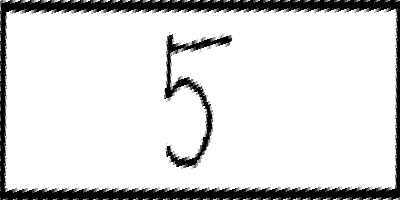
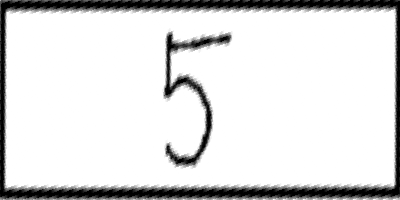
updated DistortImage

Changed region(s): [[0.0, 0.0, 1.0, 1.0], [0.39, 0.15, 0.6, 0.84]]

diff --git a/1 Console App Utilities/A - Extensions/E - Image/E007 DistortImage.cs b/1 Console App Utilities/A - Extensions/E - Image/E007 DistortImage.cs
@@ -334,20 +334,18 @@ public static partial class OwesomeExtensions
             ps = ps.Append((oriP3, tarP3)).ToArray();
         }
 
-        var oriO = CreateMatrix.Dense<float>(4, 4);
-        var tarO = CreateMatrix.Dense<float>(4, 4);
+        var oriO = CreateMatrix.Dense<float>(3, 4);
+        var tarO = CreateMatrix.Dense<float>(3, 4);
 
         for (int i = 0; i < 4; i++)
         {
             oriO[0, i] = ps[i].originalPoint.X;
             oriO[1, i] = ps[i].originalPoint.Y;
             oriO[2, i] = 1;
-            oriO[3, i] = 1;
 
             tarO[0, i] = ps[i].tagrtPoint.X;
             tarO[1, i] = ps[i].tagrtPoint.Y;
             tarO[2, i] = 1;
-            tarO[3, i] = 1;
         }
 
         var m1 = tarO;
@@ -355,92 +353,10 @@ public static partial class OwesomeExtensions
         var m1I = m1.PseudoInverse();
         var invMatrix = m2 * m1I;
 
-        var outputImage = __DistortImage_FromInverseMatrix2(inputImage, invMatrix, fill);
-
-        //// original bitmap mapping
-        //using var outputBitmap = new Bitmap(inputImage.Width, inputImage.Height);
-        //using var g = Graphics.FromImage(outputBitmap);
-        //g.FillRectangle(fill!, new Rectangle(new Point(0, 0), outputBitmap.Size));
-        //g.DrawImage(inputImage, points);
-
-
+        var outputImage = __DistortImage_FromInverseMatrix(inputImage, invMatrix, fill);
 
         return outputImage;
 
-
-
-        // stable keep
-        {
-
-            //if (ps.Length == 1)
-            //{
-            //    // increase dim
-            //    ps = ps.Append((Point.Add(ps[0].originalPoint, new Size(100, 0)), Point.Add(ps[0].tagrtPoint, new Size(100, 0)))).ToArray();
-            //    ps = ps.Append((Point.Add(ps[0].originalPoint, new Size(0, 100)), Point.Add(ps[0].tagrtPoint, new Size(0, 100)))).ToArray();
-            //}
-            //if (ps.Length == 2)
-            //{
-            //    // increase dim
-            //    var oriP0 = ps[0].originalPoint;
-            //    var oriP1 = ps[1].originalPoint;
-            //    var oriV1 = Point.Subtract(oriP1, (Size)oriP0);
-            //    var oriV2 = Point.Add(new Point(-oriV1.Y, oriV1.X), (Size)oriP0);
-
-            //    var tarP0 = ps[0].tagrtPoint;
-            //    var tarP1 = ps[1].tagrtPoint;
-            //    var tarV1 = Point.Subtract(tarP1, (Size)tarP0);
-            //    var tarV2 = Point.Add(new Point(-tarV1.Y, tarV1.X), (Size)tarP0);
-
-            //    ps = ps.Append((oriV2, tarV2)).ToArray();
-            //}
-
-            //var oriO = CreateMatrix.Dense<float>(4, 3);
-            //var tarO = CreateMatrix.Dense<float>(4, 3);
-
-            //for (int i = 0; i < 3; i++)
-            //{
-            //    oriO[0, i] = ps[i].originalPoint.X;
-            //    oriO[1, i] = ps[i].originalPoint.Y;
-            //    oriO[2, i] = 1;
-            //    oriO[3, i] = 1;
-
-            //    tarO[0, i] = ps[i].tagrtPoint.X;
-            //    tarO[1, i] = ps[i].tagrtPoint.Y;
-            //    tarO[2, i] = 1;
-            //    tarO[3, i] = 1;
-            //}
-
-            //var oriF = CreateMatrix.Dense<float>(4, 3);
-
-            //oriF[0, 1] = inputImage.Width;
-            //oriF[1, 2] = inputImage.Height;
-            //oriF[2, 0] = 1;
-            //oriF[2, 1] = 1;
-            //oriF[2, 2] = 1;
-            //oriF[3, 0] = 1;
-            //oriF[3, 1] = 1;
-            //oriF[3, 2] = 1;
-
-            //var m1 = tarO;
-            //var m2 = oriO;
-            //var m3 = oriF;
-            //var m2I = m2.PseudoInverse();
-            //var tarF = m1 * m2I * m3;
-
-            //var points = new PointF[]
-            //{
-            //new PointF(tarF[0,0], tarF[1,0]),
-            //new PointF(tarF[0,1], tarF[1,1]),
-            //new PointF(tarF[0,2], tarF[1,2]),
-            //};
-
-            //using var outputBitmap = new Bitmap(inputImage.Width, inputImage.Height);
-            //using var g = Graphics.FromImage(outputBitmap);
-            //g.FillRectangle(fill!, new Rectangle(new Point(0, 0), outputBitmap.Size));
-            //g.DrawImage(inputImage, points);
-
-            //return (Image)outputBitmap.Clone();
-        }
     }
 
     /// <summary>
@@ -476,110 +392,49 @@ public static partial class OwesomeExtensions
         inFBmp.BeginAccess();
         outFBmp.BeginAccess();
 
-        Color bmpCol;
+        Color pixCol;
         for (int w = 0; w < outputBitmap.Width; w++)
         {
             for (int h = 0; h < outputBitmap.Height; h++)
             {
                 // from target frame to original frame
-                var tarF = CreateMatrix.Dense<float>(4, 1);
+                var tarF = CreateMatrix.Dense<float>(3, 1);
 
                 tarF[0, 0] = w;
                 tarF[1, 0] = h;
                 tarF[2, 0] = 1;
-                tarF[3, 0] = 1;
 
                 var oriF = invMatrix * tarF;
-
                 int oriX = (int)oriF[0, 0];
                 int oriY = (int)oriF[1, 0];
+                float oXW = oriF[0, 0] - oriX;
+                float oYW = oriF[1, 0] - oriY;
 
-                if (0 < oriX && oriX < inputImage.Width && 0 < oriY && oriY < inputImage.Height)
+                if (0 < oriX && oriX < inputImage.Width - 1 && 0 < oriY && oriY < inputImage.Height - 1)
                 {
-                    bmpCol = inFBmp.GetPixel(oriX, oriY);
+                    var c00 = inFBmp.GetPixel(oriX + 0, oriY + 0);
+                    var c10 = inFBmp.GetPixel(oriX + 1, oriY + 0);
+                    var c01 = inFBmp.GetPixel(oriX + 0, oriY + 1);
+                    var c11 = inFBmp.GetPixel(oriX + 1, oriY + 1);
+
+                    var w00 = (1 - oXW) + (1 - oYW);
+                    var w10 = (0 + oXW) + (1 - oYW);
+                    var w01 = (1 - oXW) + (0 + oYW);
+                    var w11 = (0 + oXW) + (0 + oYW);
+
+                    var A = (int)((c00.A * w00 + c10.A * w10 + c01.A * w01 + c11.A * w11) / 4);
+                    var R = (int)((c00.R * w00 + c10.R * w10 + c01.R * w01 + c11.R * w11) / 4);
+                    var G = (int)((c00.G * w00 + c10.G * w10 + c01.G * w01 + c11.G * w11) / 4);
+                    var B = (int)((c00.B * w00 + c10.B * w10 + c01.B * w01 + c11.B * w11) / 4);
+
+                    pixCol = Color.FromArgb(A, R, G, B);
                 }
                 else
                 {
-                    bmpCol = fill.Value;
+                    pixCol = fill.Value;
                 }
 
-                outFBmp.SetPixel(w, h, bmpCol);
-            }
-        }
-
-        outFBmp.EndAccess();
-        inFBmp.EndAccess();
-
-        return (Image)outputBitmap.Clone();
-    }
-
-    /// <summary>
-    /// DistortImage Main
-    /// </summary>
-    /// <param name="inputImage"></param>
-    /// <param name="targetColor"></param>
-    /// <returns></returns>
-    private static Image __DistortImage_FromInverseMatrix2(Image inputImage, Matrix<float> invMatrix, Color? fill = null)
-    {
-        // from target frame to original frame
-        var tarF = CreateMatrix.Dense<float>(4, 4);
-
-        tarF[0, 1] = inputImage.Width;
-        tarF[1, 2] = inputImage.Height;
-        tarF[0, 3] = inputImage.Width;
-        tarF[1, 3] = inputImage.Height;
-        tarF[2, 0] = 1;
-        tarF[2, 1] = 1;
-        tarF[2, 2] = 1;
-        tarF[2, 3] = 1;
-        tarF[3, 0] = 1;
-        tarF[3, 1] = 1;
-        tarF[3, 2] = 1;
-        tarF[3, 3] = 1;
-
-        var oriF = invMatrix * tarF;
-        var oriFs = new PointF[]
-        {
-            new PointF(oriF[0,0], oriF[1,0]),
-            new PointF(oriF[0,1], oriF[1,1]),
-            new PointF(oriF[0,2], oriF[1,2]),
-            new PointF(oriF[0,3], oriF[1,3]),
-        };
-
-        fill ??= Color.Transparent;
-
-        var outputBitmap = new Bitmap(inputImage.Width, inputImage.Height);
-
-        var inFBmp = new FastBitmap((Bitmap)inputImage);
-        var outFBmp = new FastBitmap(outputBitmap);
-
-
-        inFBmp.BeginAccess();
-        outFBmp.BeginAccess();
-
-        Color bmpCol;
-        for (int w = 0; w < outputBitmap.Width; w++)
-        {
-            for (int h = 0; h < outputBitmap.Height; h++)
-            {
-                // 0 → 1 の幅割合分 → 4
-                var P4X = ((outputBitmap.Width - w) * oriFs[0].X + w * oriFs[1].X) / outputBitmap.Width;
-                var P4Y = ((outputBitmap.Width - w) * oriFs[0].Y + w * oriFs[1].Y) / outputBitmap.Width;
-
-                // 2 → 3 の幅割合分 → 5
-                var P5X = ((outputBitmap.Width - w) * oriFs[2].X + w * oriFs[3].X) / outputBitmap.Width;
-                var P5Y = ((outputBitmap.Width - w) * oriFs[2].Y + w * oriFs[3].Y) / outputBitmap.Width;
-
-                // 4 → 5 の高さ割合分 → 6
-                var P6X = (int)((outputBitmap.Height - h) * P4X + h * P5X) / outputBitmap.Height;
-                var P6Y = (int)((outputBitmap.Height - h) * P4Y + h * P5Y) / outputBitmap.Height;
-
-                if (0 < P6X && P6X < inputImage.Width && 0 < P6Y && P6Y < inputImage.Height)
-                    bmpCol = inFBmp.GetPixel(P6X, P6Y);
-                else
-                    bmpCol = fill.Value;
-
-                outFBmp.SetPixel(w, h, bmpCol);
+                outFBmp.SetPixel(w, h, pixCol);
             }
         }
 

diff --git a/1 Console App Utilities/Z - UsageExamples/Test.cs b/1 Console App Utilities/Z - UsageExamples/Test.cs
@@ -171,52 +171,52 @@ public class Test
 
             // E007 DistortImage
             {
-                var input5 = new FileInfo($@"{baseDir}\E007 DistortImage\5.png");
-                var output510 = new FileInfo($@"{baseDir}\E007 DistortImage\5-1-0.png");
-                var output520 = new FileInfo($@"{baseDir}\E007 DistortImage\5-2-0.png");
-                var output521 = new FileInfo($@"{baseDir}\E007 DistortImage\5-2-1.png");
-                var output530 = new FileInfo($@"{baseDir}\E007 DistortImage\5-3-0.png");
-                var output531 = new FileInfo($@"{baseDir}\E007 DistortImage\5-3-1.png");
-                var output540 = new FileInfo($@"{baseDir}\E007 DistortImage\5-4-0.png");
-                var output541 = new FileInfo($@"{baseDir}\E007 DistortImage\5-4-1.png");
-                var output542 = new FileInfo($@"{baseDir}\E007 DistortImage\5-4-2.png");
+                //var input5 = new FileInfo($@"{baseDir}\E007 DistortImage\5.png");
+                //var output510 = new FileInfo($@"{baseDir}\E007 DistortImage\5-1-0.png");
+                //var output520 = new FileInfo($@"{baseDir}\E007 DistortImage\5-2-0.png");
+                //var output521 = new FileInfo($@"{baseDir}\E007 DistortImage\5-2-1.png");
+                //var output530 = new FileInfo($@"{baseDir}\E007 DistortImage\5-3-0.png");
+                //var output531 = new FileInfo($@"{baseDir}\E007 DistortImage\5-3-1.png");
+                //var output540 = new FileInfo($@"{baseDir}\E007 DistortImage\5-4-0.png");
+                //var output541 = new FileInfo($@"{baseDir}\E007 DistortImage\5-4-1.png");
+                //var output542 = new FileInfo($@"{baseDir}\E007 DistortImage\5-4-2.png");
 
-                //★ 1 point → move
-                input5.DistortImage(output510, Color.Orange,
-                    (new Point(96, 80), new Point(0, 0)));
+                ////★ 1 point → move
+                //input5.DistortImage(output510, Color.Orange,
+                //    (new Point(96, 80), new Point(0, 0)));
 
-                // ★ 2 points → move, resize, rotate
-                input5.DistortImage(output520, Color.Orange,
-                    (new Point(96, 80), new Point(0, 0)),
-                    (new Point(373, 120), new Point(400, 0)));
+                //// ★ 2 points → move, resize, rotate
+                //input5.DistortImage(output520, Color.Orange,
+                //    (new Point(96, 80), new Point(0, 0)),
+                //    (new Point(373, 120), new Point(400, 0)));
 
-                input5.DistortImage(output521, Color.Orange,
-                    (new Point(96, 80), new Point(0, 0)),
-                    (new Point(116, 138), new Point(0, 200)));
+                //input5.DistortImage(output521, Color.Orange,
+                //    (new Point(96, 80), new Point(0, 0)),
+                //    (new Point(116, 138), new Point(0, 200)));
 
-                // ★ 3 points →  move, resize, rotate, shear
-                input5.DistortImage(output530, Color.Orange,
-                    (new Point(96, 80), new Point(0, 0)),
-                    (new Point(373, 120), new Point(400, 0)),
-                    (new Point(116, 138), new Point(0, 200)));
+                //// ★ 3 points →  move, resize, rotate, shear
+                //input5.DistortImage(output530, Color.Orange,
+                //    (new Point(96, 80), new Point(0, 0)),
+                //    (new Point(373, 120), new Point(400, 0)),
+                //    (new Point(116, 138), new Point(0, 200)));
 
-                input5.DistortImage(output531, Color.Orange,
-                    (new Point(96, 80), new Point(50, 50)),
-                    (new Point(373, 120), new Point(350, 50)),
-                    (new Point(116, 138), new Point(50, 150)));
+                //input5.DistortImage(output531, Color.Orange,
+                //    (new Point(96, 80), new Point(50, 50)),
+                //    (new Point(373, 120), new Point(350, 50)),
+                //    (new Point(116, 138), new Point(50, 150)));
 
-                // ★ 4 points →  move, resize, rotate, shear, perspective
-                input5.DistortImage(output540, Color.Orange,
-                  (new Point(96, 80), new Point(50, 50)),
-                  (new Point(373, 120), new Point(350, 50)),
-                  (new Point(116, 138), new Point(50, 150)),
-                  (new Point(394, 178), new Point(350, 150)));
+                //// ★ 4 points →  move, resize, rotate, shear, perspective
+                //input5.DistortImage(output540, Color.Orange,
+                //  (new Point(96, 80), new Point(50, 50)),
+                //  (new Point(373, 120), new Point(350, 50)),
+                //  (new Point(116, 138), new Point(50, 150)),
+                //  (new Point(394, 178), new Point(350, 150)));
 
-                input5.DistortImage(output541, Color.Orange,
-                   (new Point(96, 80), new Point(50, 50)),
-                   (new Point(373, 120), new Point(350, 50)),
-                   (new Point(116, 138), new Point(50, 150)),
-                   (new Point(394, 178), new Point(400, 200)));
+                //input5.DistortImage(output541, Color.Orange,
+                //   (new Point(96, 80), new Point(50, 50)),
+                //   (new Point(373, 120), new Point(350, 50)),
+                //   (new Point(116, 138), new Point(50, 150)),
+                //   (new Point(394, 178), new Point(400, 200)));
 
             }
 
